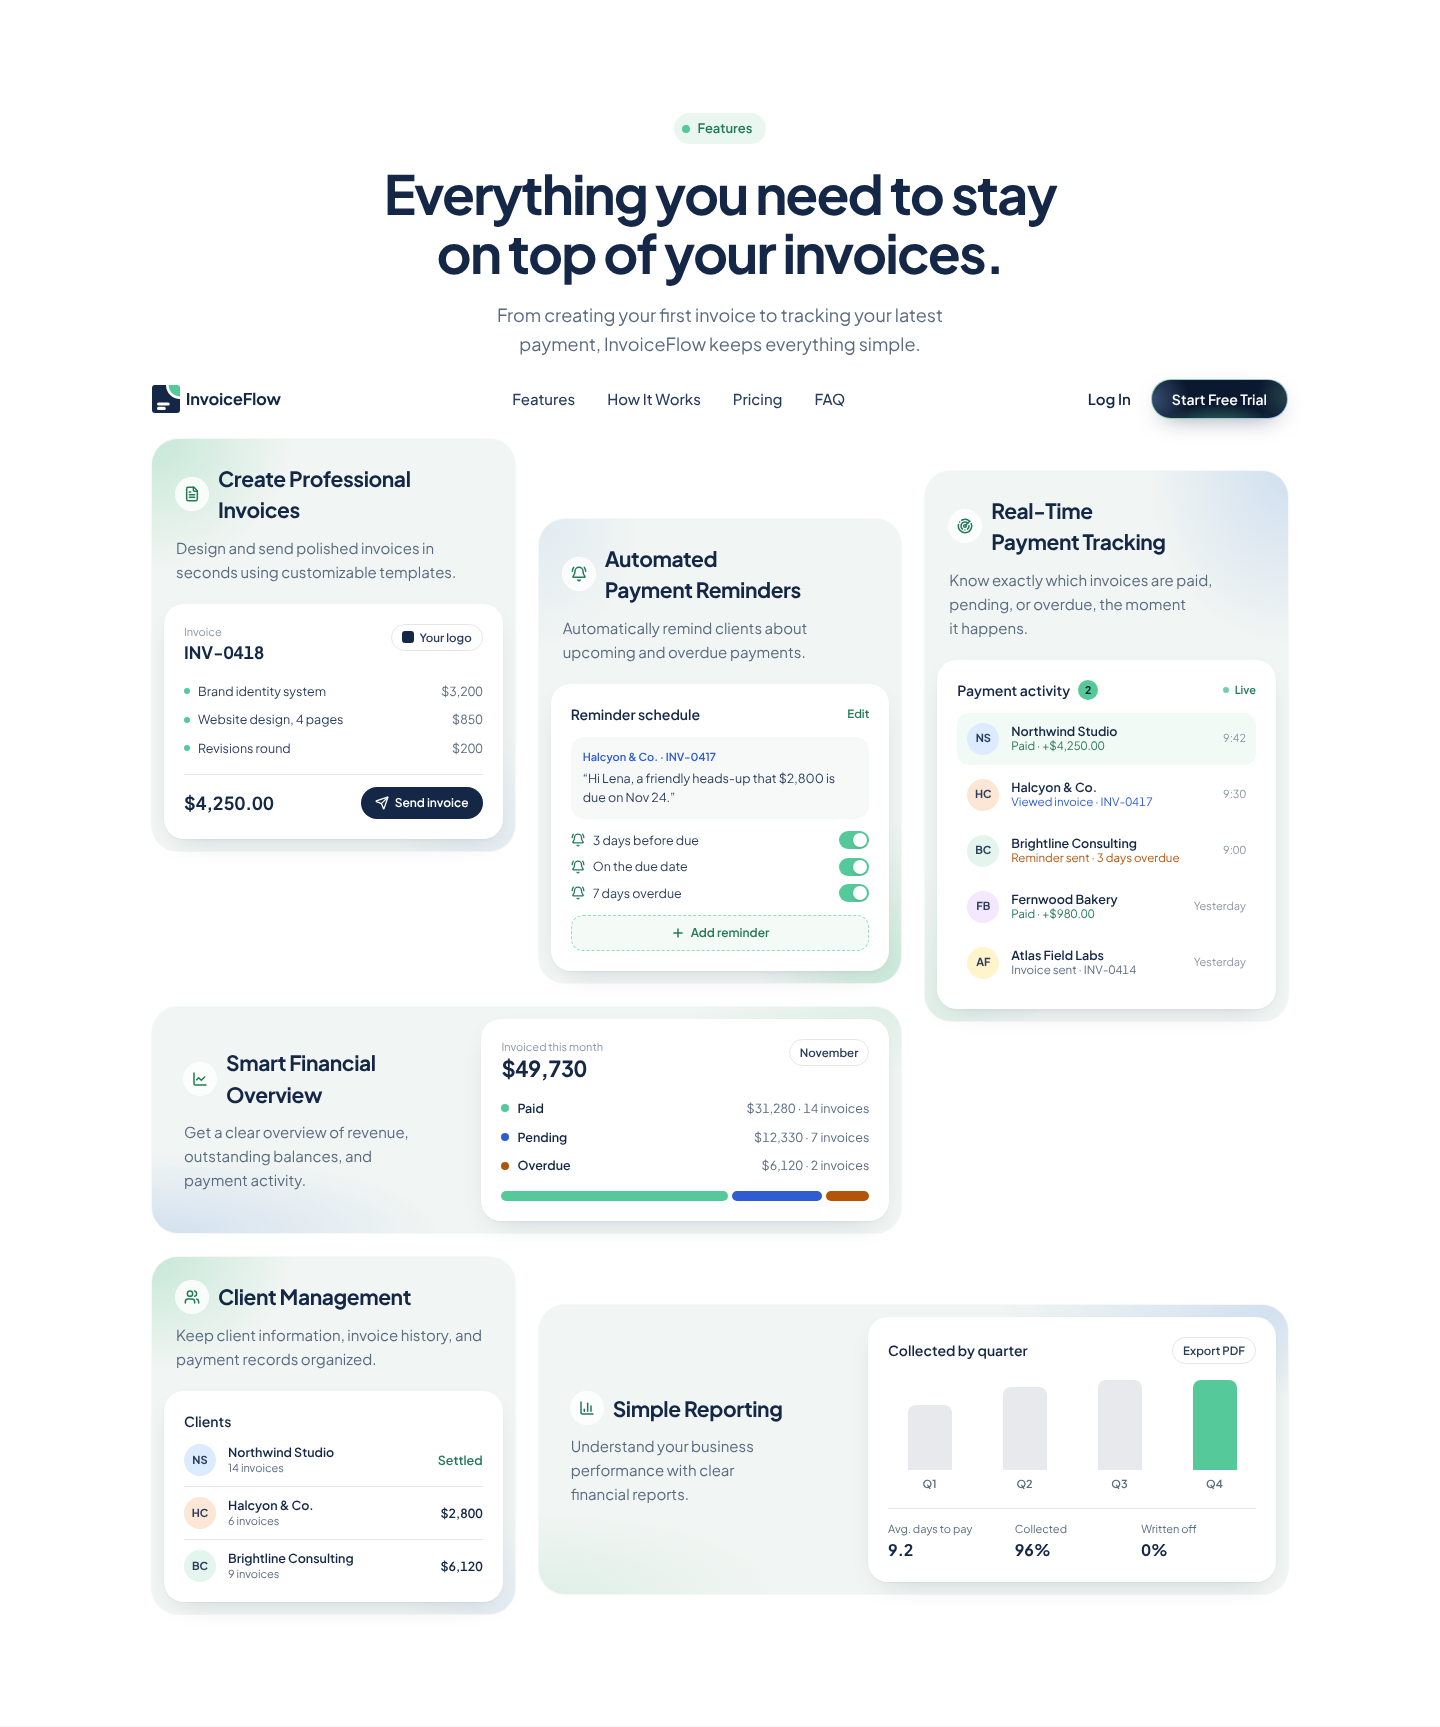
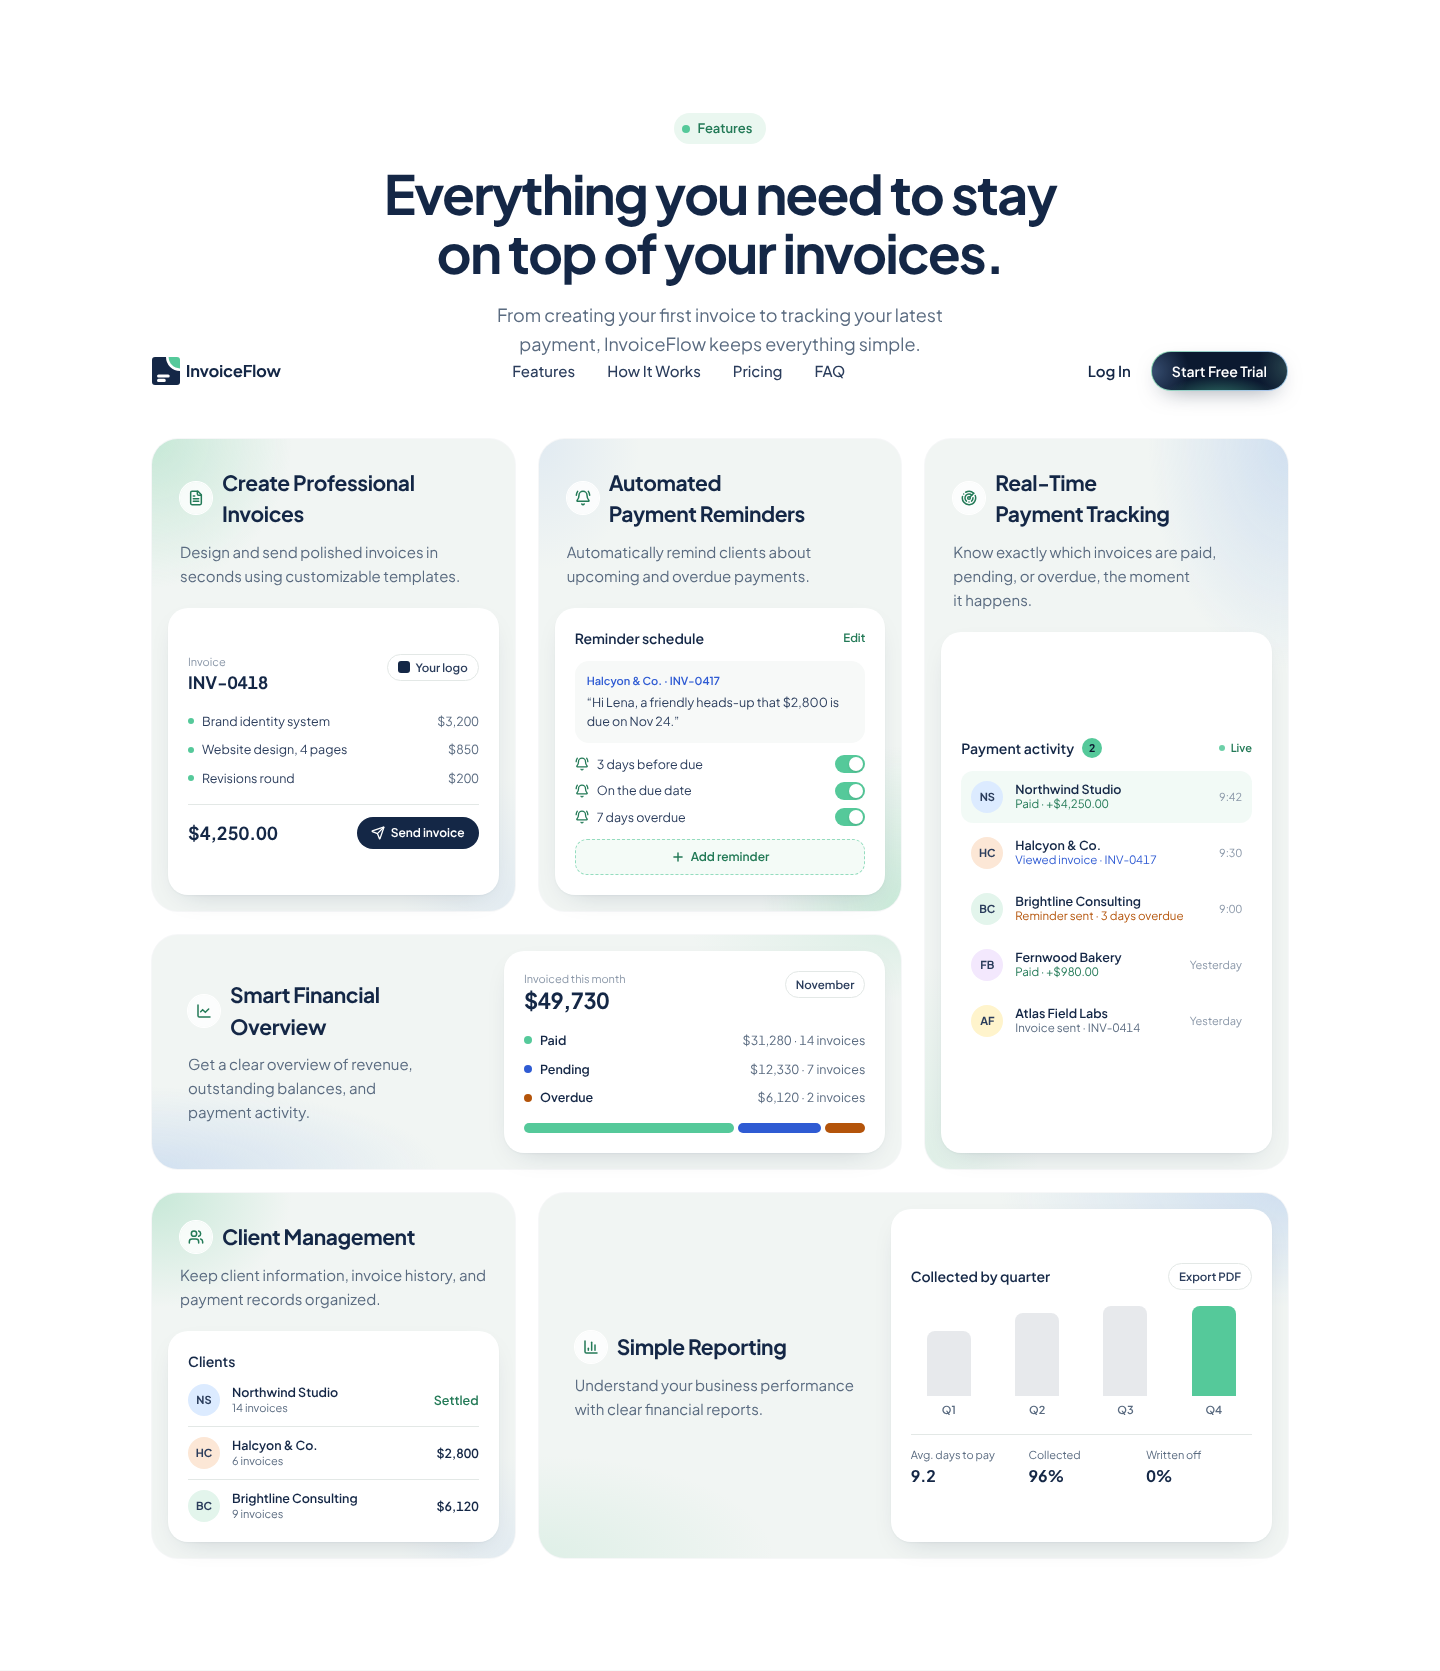
Features: even bento grid instead of staggered offsets
The staggered layout was based on a mid-animation capture of the
reference; its settled state is a regular bento. Cards now fill their
grid cells with one 24px gap throughout, inset panels take the remaining
height with content centred, and wide cards centre their copy beside
the panel.

Claude-Session: https://claude.ai/code/session_01BMwnAZUSDMBHdEEFwNrE9Z

diff --git a/src/components/FeatureTile.tsx b/src/components/FeatureTile.tsx
@@ -31,17 +31,18 @@ type Props = {
 
 /**
  * Feature card: a tinted shell holding the copy, with the product UI on a
- * white inset panel. Cards hug their content, so a staggered grid leaves
- * open space between them instead of inside them. The panel lifts on hover.
+ * white inset panel. In the bento grid every card fills its cell and the
+ * panel takes the remaining height, so rows line up and gaps stay even.
+ * The panel lifts on hover.
  */
 export function FeatureCard({ icon: Icon, title, body, children, glow = 'top-right', layout = 'stack', className = '', delay = 0 }: Props) {
   const split = layout === 'split';
   return (
-    <Reveal as="article" delay={delay} className={`group self-start ${className}`}>
+    <Reveal as="article" delay={delay} className={`group h-full ${className}`}>
       <div
-        className={`flex flex-col gap-5 rounded-[26px] bg-[#F1F5F3] p-3 ring-1 ring-ink/[0.04] ${glows[glow]} ${split ? 'lg:grid lg:grid-cols-[minmax(0,0.85fr)_minmax(0,1.15fr)] lg:items-center lg:gap-4' : ''}`}
+        className={`flex h-full flex-col gap-5 rounded-[26px] bg-[#F1F5F3] p-4 ring-1 ring-ink/[0.04] ${glows[glow]} ${split ? 'lg:grid lg:grid-cols-[minmax(0,0.9fr)_minmax(0,1.1fr)] lg:gap-6' : ''}`}
       >
-        <div className={`flex flex-col gap-2.5 px-3 pt-3 ${split ? 'lg:px-5 lg:py-6' : ''}`}>
+        <div className={`flex flex-col gap-2.5 px-3 pt-3 ${split ? 'lg:self-center lg:pt-0 lg:pl-5' : ''}`}>
           <h3 className="flex items-center gap-2.5 text-[20px] font-bold tracking-[-0.02em] text-ink sm:text-[21px]">
             <span className="grid size-8 shrink-0 place-items-center rounded-full bg-white/80 text-green-ink ring-1 ring-white">
               <Icon className="size-4" strokeWidth={2.25} aria-hidden="true" />
@@ -51,7 +52,7 @@ export function FeatureCard({ icon: Icon, title, body, children, glow = 'top-rig
           <p className="max-w-[40ch] text-[15px] leading-[1.6] text-muted">{body}</p>
         </div>
         <div
-          className="rounded-[20px] bg-white p-4 shadow-[0_1px_2px_rgb(20_39_70/0.04),0_10px_30px_-16px_rgb(20_39_70/0.25)] transition-[transform,box-shadow] duration-500 ease-[var(--ease-out-soft)] group-hover:-translate-y-1 group-hover:shadow-[0_1px_2px_rgb(20_39_70/0.04),0_18px_40px_-16px_rgb(20_39_70/0.3)] sm:p-5"
+          className="flex flex-1 flex-col justify-center rounded-[20px] bg-white p-4 shadow-[0_1px_2px_rgb(20_39_70/0.04),0_10px_30px_-16px_rgb(20_39_70/0.25)] transition-[transform,box-shadow] duration-500 ease-[var(--ease-out-soft)] group-hover:-translate-y-1 group-hover:shadow-[0_1px_2px_rgb(20_39_70/0.04),0_18px_40px_-16px_rgb(20_39_70/0.3)] sm:p-5"
           aria-hidden="true"
         >
           {children}

diff --git a/src/sections/Features.tsx b/src/sections/Features.tsx
@@ -238,11 +238,11 @@ export function Features() {
         </Reveal>
 
         {/*
-          Staggered grid on desktop: cards start at different heights and the
-          tracking card runs two rows tall, so the layout reads as composed
-          rather than as a uniform grid.
+          Bento grid, one 24px gap everywhere. Desktop: three cards on top with
+          payment tracking running two rows tall, then two wide cards that put
+          copy beside the panel. Tablet: two columns. Mobile: one.
         */}
-        <div className="mt-14 grid gap-5 sm:mt-20 md:grid-cols-2 lg:grid-cols-3 lg:gap-6">
+        <div className="mt-14 grid gap-6 sm:mt-20 md:grid-cols-2 lg:grid-cols-3">
           <FeatureCard
             className="lg:col-start-1 lg:row-start-1"
             icon={FileText}
@@ -253,7 +253,7 @@ export function Features() {
             <InvoicePanel />
           </FeatureCard>
           <FeatureCard
-            className="lg:col-start-2 lg:row-start-1 lg:mt-20"
+            className="lg:col-start-2 lg:row-start-1"
             delay={80}
             icon={BellRing}
             glow="bottom-right"
@@ -263,7 +263,7 @@ export function Features() {
             <RemindersPanel />
           </FeatureCard>
           <FeatureCard
-            className="md:col-span-2 lg:col-span-1 lg:col-start-3 lg:row-span-2 lg:row-start-1 lg:mt-8"
+            className="md:col-span-2 lg:col-span-1 lg:col-start-3 lg:row-span-2 lg:row-start-1"
             delay={160}
             icon={Radar}
             glow="top-right"
@@ -286,7 +286,7 @@ export function Features() {
             <ClientsPanel />
           </FeatureCard>
           <FeatureCard
-            className="lg:col-span-2 lg:col-start-2 lg:row-start-3 lg:mt-12"
+            className="lg:col-span-2 lg:col-start-2 lg:row-start-3"
             layout="split"
             delay={80}
             icon={BarChart3}
